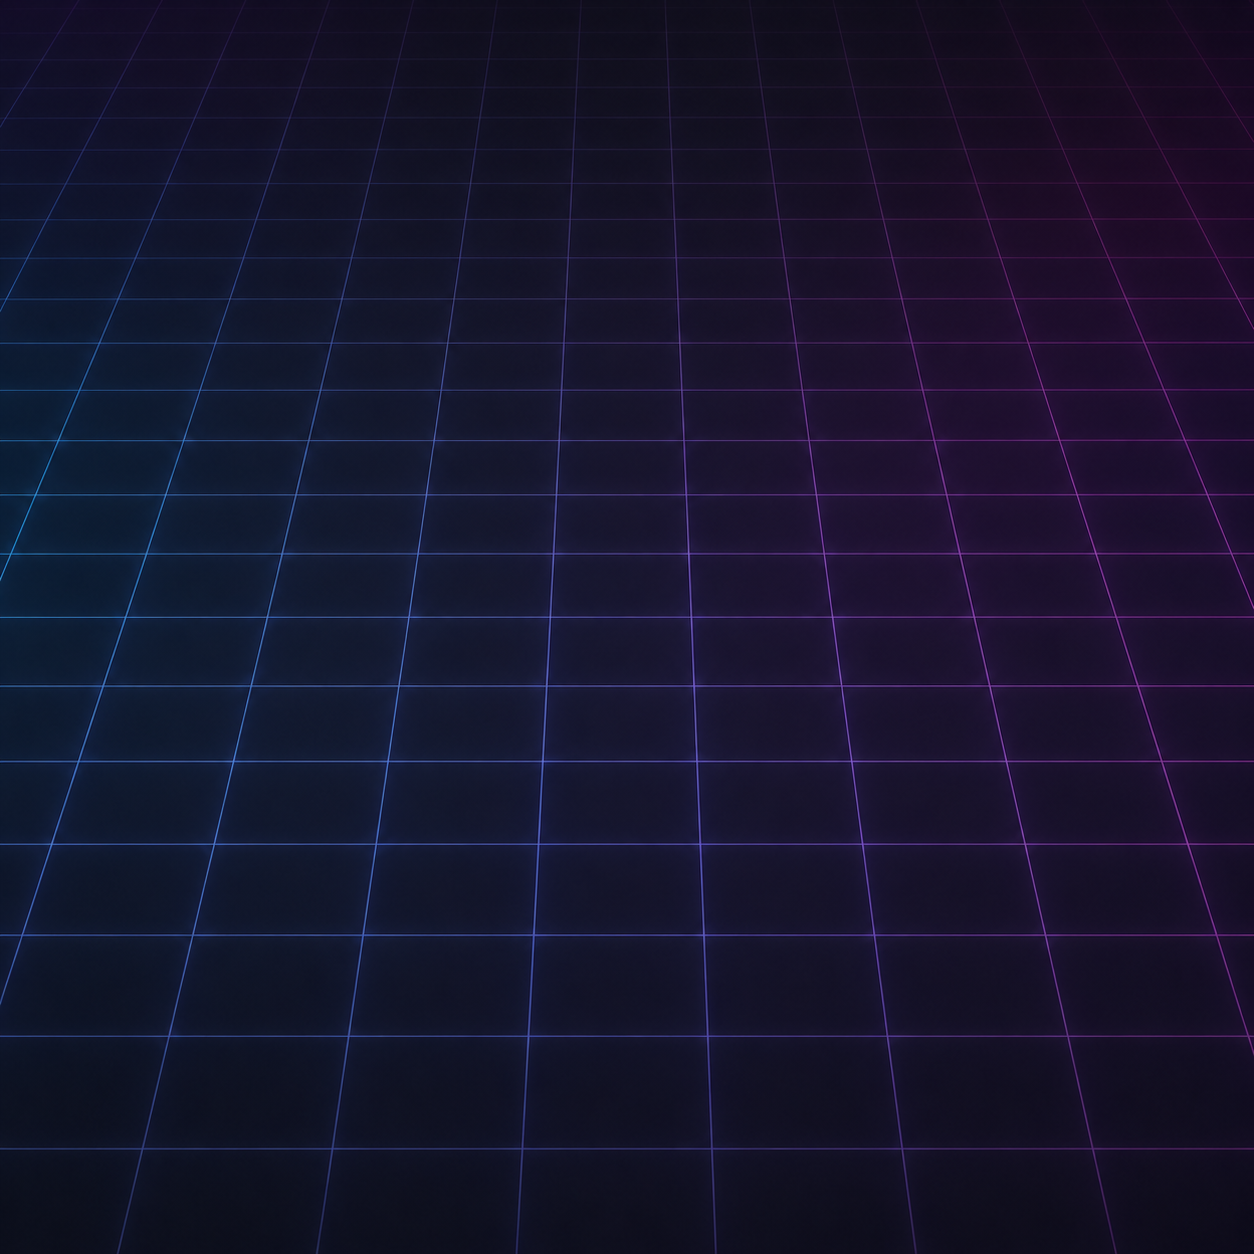
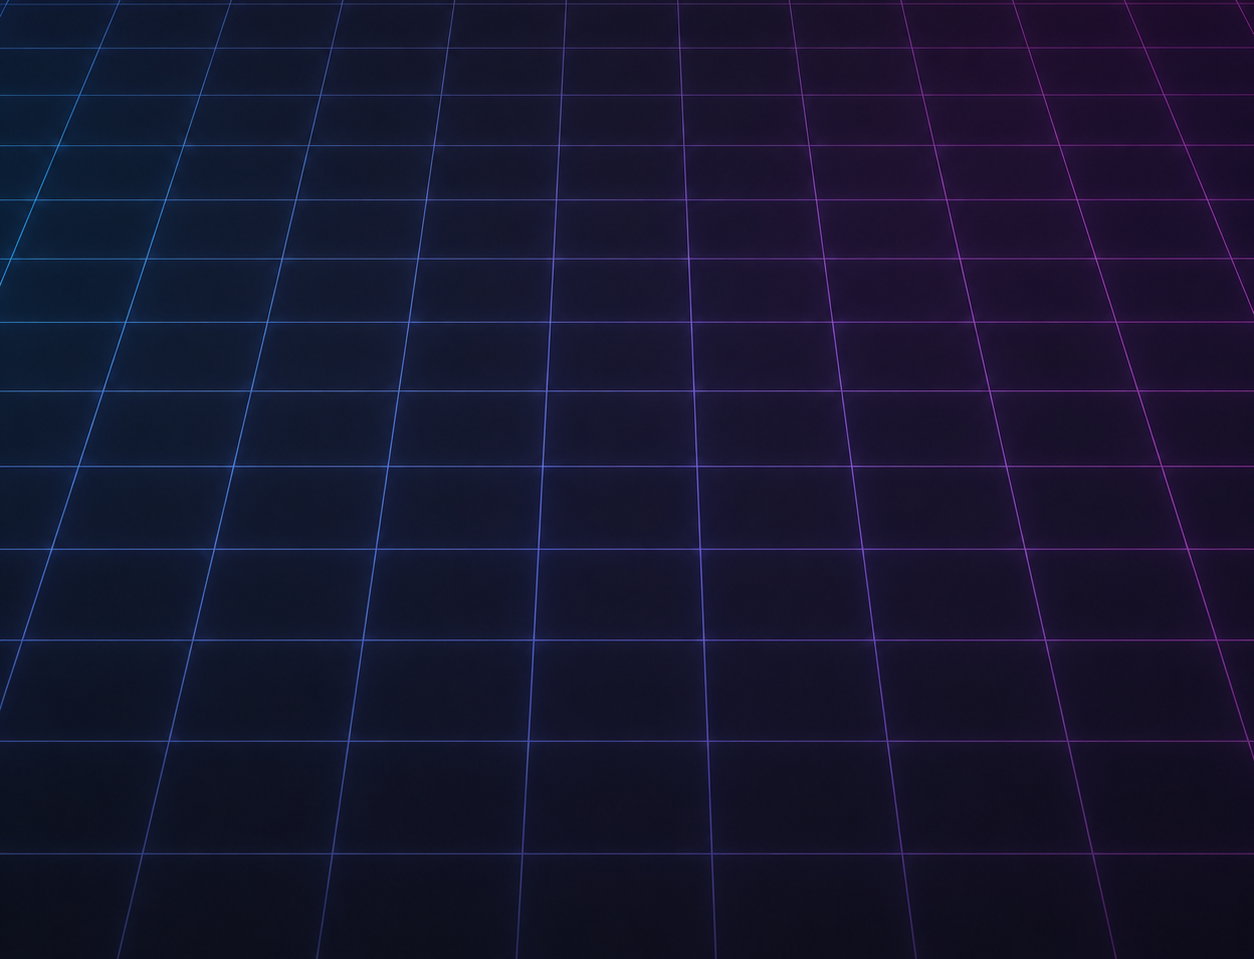
Yeni assets eklendi.

diff --git a/src/main.cpp b/src/main.cpp
@@ -48,16 +48,16 @@ int main(int argc, char* argv[])
     SDL_RenderSetLogicalSize(renderer, 1280, 720);
 
     SDL_Texture* arkaplanDokusu = IMG_LoadTexture(renderer, "assets/arkaplan.png");
-    SDL_Texture* nesneYuvasi = IMG_LoadTexture(renderer, "assets/nesneyuvasi.png");
-    SDL_Texture* nesne = IMG_LoadTexture(renderer, "assets/nesne-Photoroom.png");
+    SDL_Texture* nesneYuvasi = IMG_LoadTexture(renderer, "assets/nsn.png");
+    SDL_Texture* nesne = IMG_LoadTexture(renderer, "assets/nessne.png");
 
     Target hedef(0,0,150,10,false,nesne);
     
      
     vector<SDL_Rect> portallar = {
-        {320, 85, 150, 150}, {565, 85, 150, 150}, {810, 85, 150, 150},
-        {320, 285, 150, 150}, {565, 285, 150, 150}, {810, 285, 150, 150},
-        {320, 485, 150, 150}, {565, 485, 150, 150}, {810, 485, 150, 150}
+        {185, 45, 180, 180}, {550, 45, 180, 180}, {915, 45, 180, 180},
+        {185, 270, 180, 180}, {550, 270, 180, 180}, {915, 270, 180, 180},
+        {185, 495, 180, 180}, {550, 495, 180, 180}, {915, 495, 180, 180}
     };
 
     GameManager oyunYoneticisi;